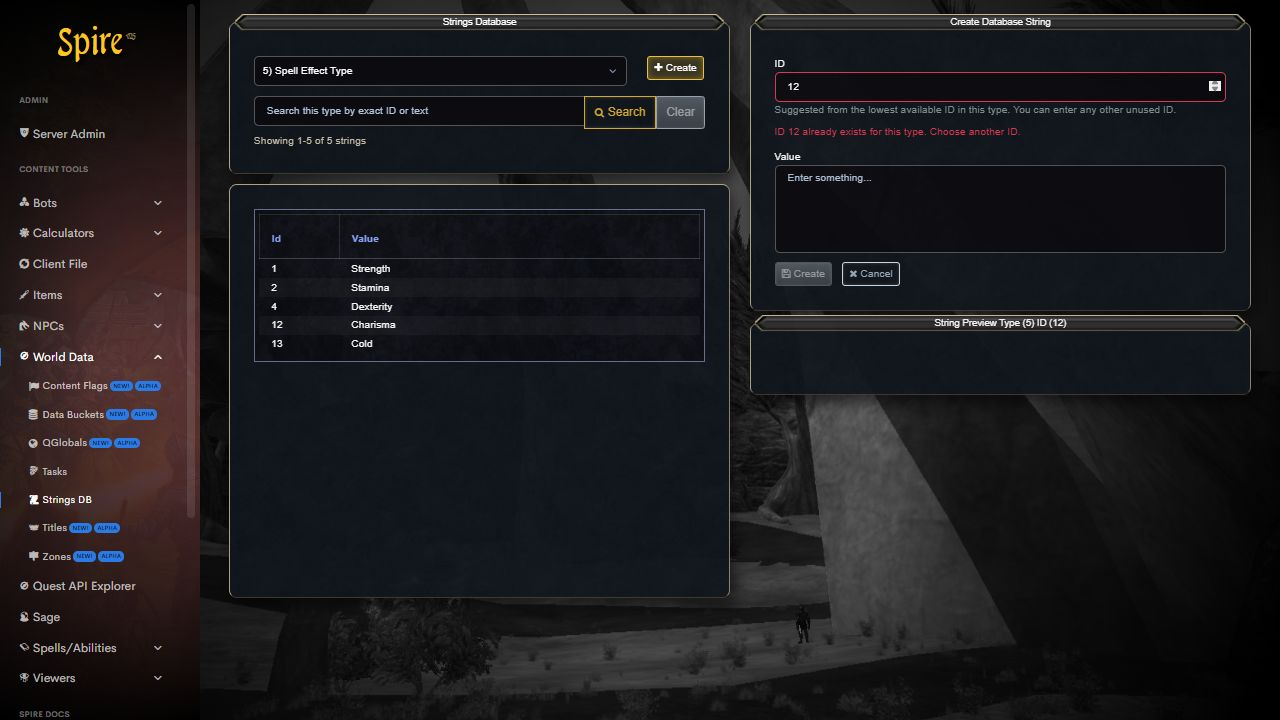
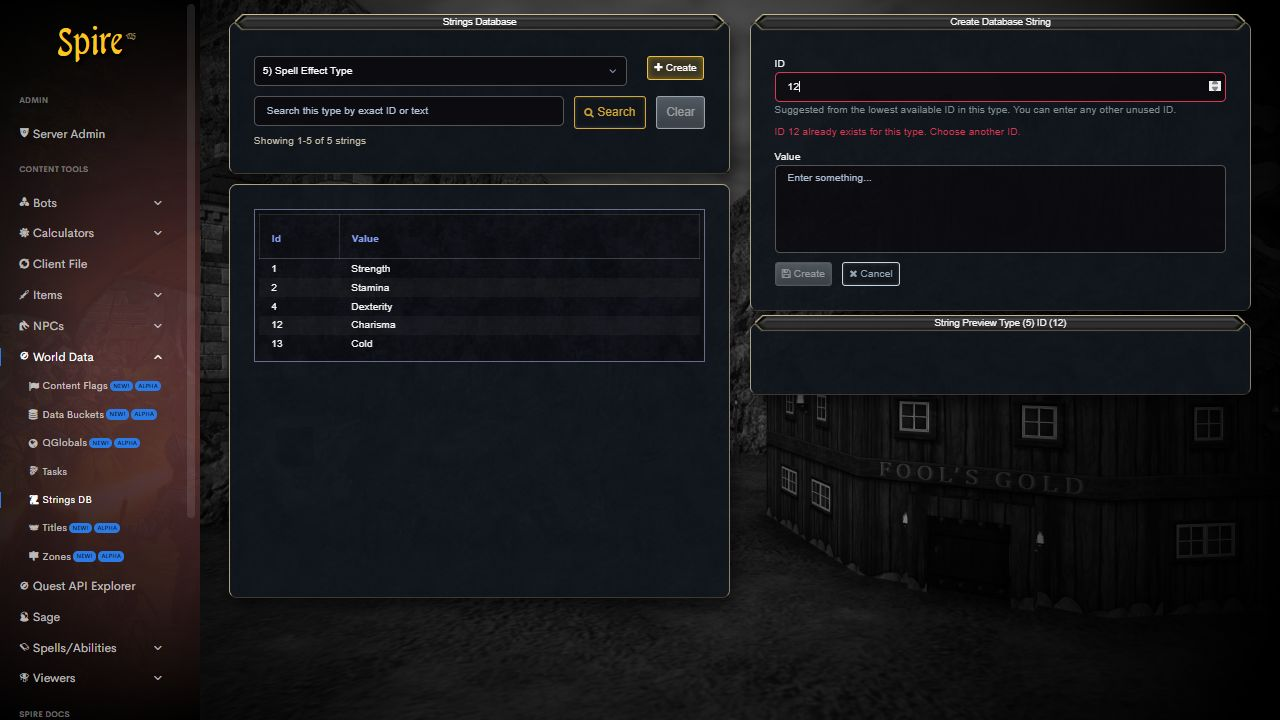
Add spacing to Strings search controls

diff --git a/frontend/src/views/strings-database/StringsDatabase.vue b/frontend/src/views/strings-database/StringsDatabase.vue
@@ -48,16 +48,18 @@
           <div v-if="isValidStringType(selectedType)" class="row mt-3">
             <div class="col-12">
               <label class="sr-only" for="db-string-search">Search strings</label>
-              <b-input-group>
+              <div class="string-search-controls">
                 <b-form-input
                   id="db-string-search"
                   v-model="searchTerm"
+                  class="string-search-input"
                   placeholder="Search this type by exact ID or text"
                   autocomplete="off"
                   @keyup.enter="applySearch"
                 />
-                <b-input-group-append>
+                <div class="string-search-actions">
                   <b-button
+                    id="db-string-search-submit"
                     variant="outline-warning"
                     :disabled="loading"
                     @click="applySearch"
@@ -66,14 +68,15 @@
                     Search
                   </b-button>
                   <b-button
+                    id="db-string-search-clear"
                     variant="outline-secondary"
                     :disabled="loading || (!searchTerm && !appliedSearch)"
                     @click="clearSearch"
                   >
                     Clear
                   </b-button>
-                </b-input-group-append>
-              </b-input-group>
+                </div>
+              </div>
 
               <div v-if="!loading" class="search-summary mt-2">
                 <span v-if="totalMatches > 0">
@@ -987,6 +990,30 @@
 .search-summary {
   color: #c4bda8;
   font-size: 0.82rem;
+}
+
+.string-search-controls,
+.string-search-actions {
+  display: flex;
+  gap: 12px;
+}
+
+.string-search-input {
+  min-width: 0;
+}
+
+.string-search-actions {
+  flex: 0 0 auto;
+}
+
+@media (max-width: 575.98px) {
+  .string-search-controls {
+    flex-direction: column;
+  }
+
+  .string-search-actions > .btn {
+    flex: 1 1 0;
+  }
 }
 
 .strings-pagination {

diff --git a/tests/strings-database.spec.ts b/tests/strings-database.spec.ts
@@ -309,6 +309,16 @@ test.describe('Strings Database Editor', () => {
     const api = await mockStringsDatabaseApis(page);
     await page.goto('/strings-database?type=6');
 
+    const searchInputBounds = await page.locator('#db-string-search').boundingBox();
+    const searchButtonBounds = await page.locator('#db-string-search-submit').boundingBox();
+    const clearButtonBounds = await page.locator('#db-string-search-clear').boundingBox();
+    await expect(page.locator('.string-search-controls')).toHaveCSS('gap', '12px');
+    expect(searchInputBounds).not.toBeNull();
+    expect(searchButtonBounds).not.toBeNull();
+    expect(clearButtonBounds).not.toBeNull();
+    expect(searchButtonBounds!.x - (searchInputBounds!.x + searchInputBounds!.width)).toBeGreaterThanOrEqual(8);
+    expect(clearButtonBounds!.x - (searchButtonBounds!.x + searchButtonBounds!.width)).toBeGreaterThanOrEqual(8);
+
     await expect(page.getByText('Showing 1-50 of 55 strings', { exact: true })).toBeVisible();
     await expect(page.locator('tbody tr')).toHaveCount(50);
     await page.getByRole('button', { name: 'Next page' }).click();
